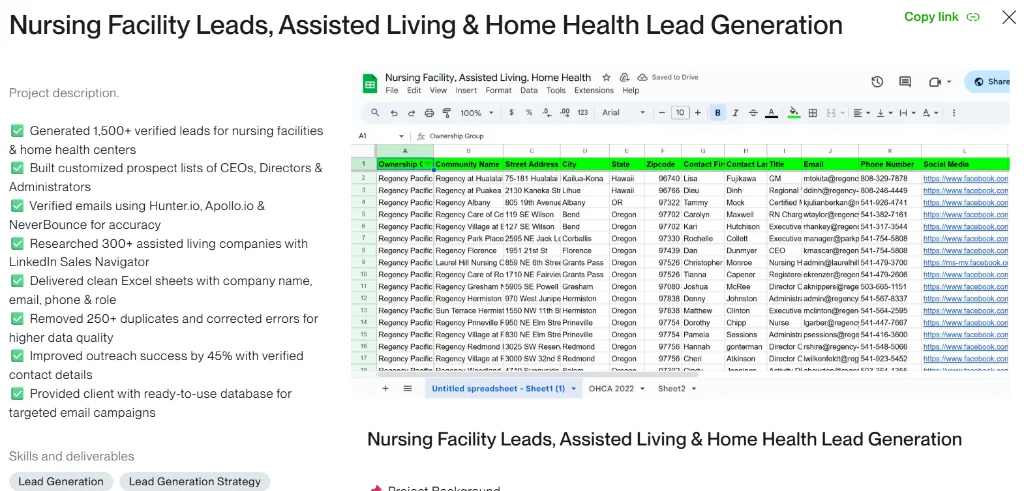
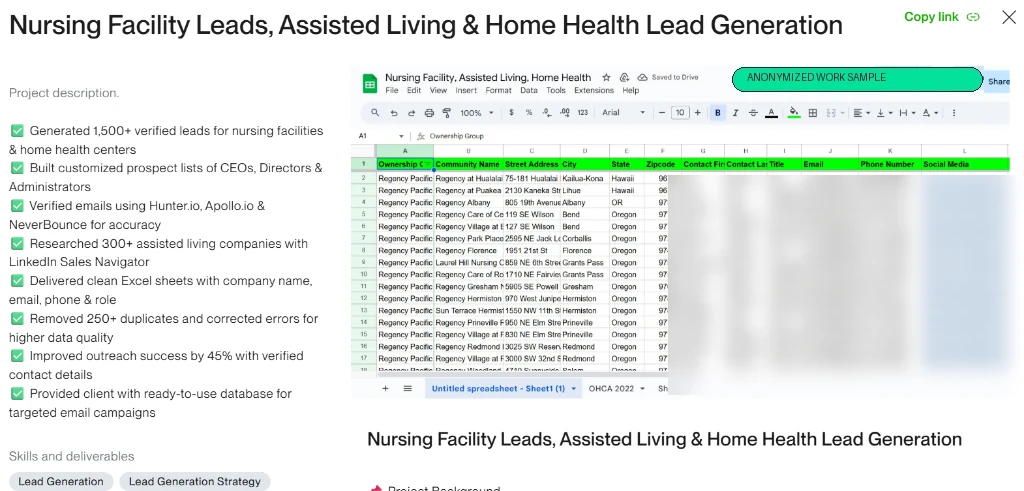
fix(b2b-lead-generation): correct Upwork URL, remove LinkedIn links, and commit sanitized case study assets

Changed region(s): [[0.625, 0.336, 1.0, 0.7637], [0.7188, 0.1222, 0.9688, 0.2138]]

diff --git a/b2b-lead-generation/index.html b/b2b-lead-generation/index.html
@@ -60,8 +60,7 @@
           "jobTitle": "B2B Lead Generation Specialist & Web Developer",
           "url": "https://fahadsaleembwp.vercel.app/",
           "sameAs": [
-            "https://www.upwork.com/freelancers/~012c40cfbe86c07886",
-            "https://www.linkedin.com/in/fahadsaleembwp/",
+            "https://www.upwork.com/freelancers/~01402e2d3e4f4322b7",
             "https://github.com/fahadbwp"
           ],
           "address": {
@@ -240,7 +239,7 @@
       </ul>
       <div class="mobile-drawer-footer">
         <a href="#contact" class="btn-action-pill" style="justify-content: center; height: 48px; font-size: 14px;">START A PROJECT ↗</a>
-        <a href="https://www.upwork.com/freelancers/~012c40cfbe86c07886" target="_blank" rel="noopener noreferrer" class="btn-hero-outline" style="justify-content: center; height: 48px; font-size: 13px;">VIEW UPWORK PROFILE ↗</a>
+        <a href="https://www.upwork.com/freelancers/~01402e2d3e4f4322b7" target="_blank" rel="noopener noreferrer" class="btn-hero-outline" style="justify-content: center; height: 48px; font-size: 13px;">VIEW UPWORK PROFILE ↗</a>
       </div>
     </div>
 
@@ -678,14 +677,11 @@
             </div>
 
             <div class="b2b-cta-actions">
-              <a href="https://www.upwork.com/freelancers/~012c40cfbe86c07886" target="_blank" rel="noopener noreferrer" class="btn-action-pill" style="height: 50px; padding: 0 28px; font-size: 13.5px;">
+              <a href="https://www.upwork.com/freelancers/~01402e2d3e4f4322b7" target="_blank" rel="noopener noreferrer" class="btn-action-pill" style="height: 50px; padding: 0 28px; font-size: 13.5px;">
                 HIRE ON UPWORK ↗
               </a>
               <a href="mailto:fahadsaleembwp@gmail.com" class="btn-hero-outline" style="border-color: var(--teal); color: var(--teal); height: 50px; padding: 0 24px; font-size: 13px;">
                 EMAIL DIRECTLY ↗
-              </a>
-              <a href="https://www.linkedin.com/in/fahadsaleembwp/" target="_blank" rel="noopener noreferrer" class="btn-hero-outline" style="border-color: var(--teal); color: var(--teal); height: 50px; padding: 0 24px; font-size: 13px;">
-                LINKEDIN ↗
               </a>
               <a href="/" class="btn-hero-outline" style="border-color: rgba(10, 33, 41, 0.3); color: var(--text-muted-dark); height: 50px; padding: 0 22px; font-size: 13px;">
                 ← MAIN PORTFOLIO
@@ -731,7 +727,7 @@
           <div class="footer-card">
             <div class="footer-card-label">DIRECT CHANNELS</div>
             <div style="display: flex; flex-direction: column; gap: 10px; margin-top: 12px;">
-              <a href="https://www.upwork.com/freelancers/~012c40cfbe86c07886" target="_blank" rel="noopener noreferrer" class="btn-action-pill" style="height: 42px; font-size: 12px; justify-content: center;">
+              <a href="https://www.upwork.com/freelancers/~01402e2d3e4f4322b7" target="_blank" rel="noopener noreferrer" class="btn-action-pill" style="height: 42px; font-size: 12px; justify-content: center;">
                 UPWORK PROFILE ↗
               </a>
               <a href="mailto:fahadsaleembwp@gmail.com" class="btn-hero-outline" style="height: 42px; font-size: 12px; justify-content: center; border-color: var(--teal); color: var(--teal);">
